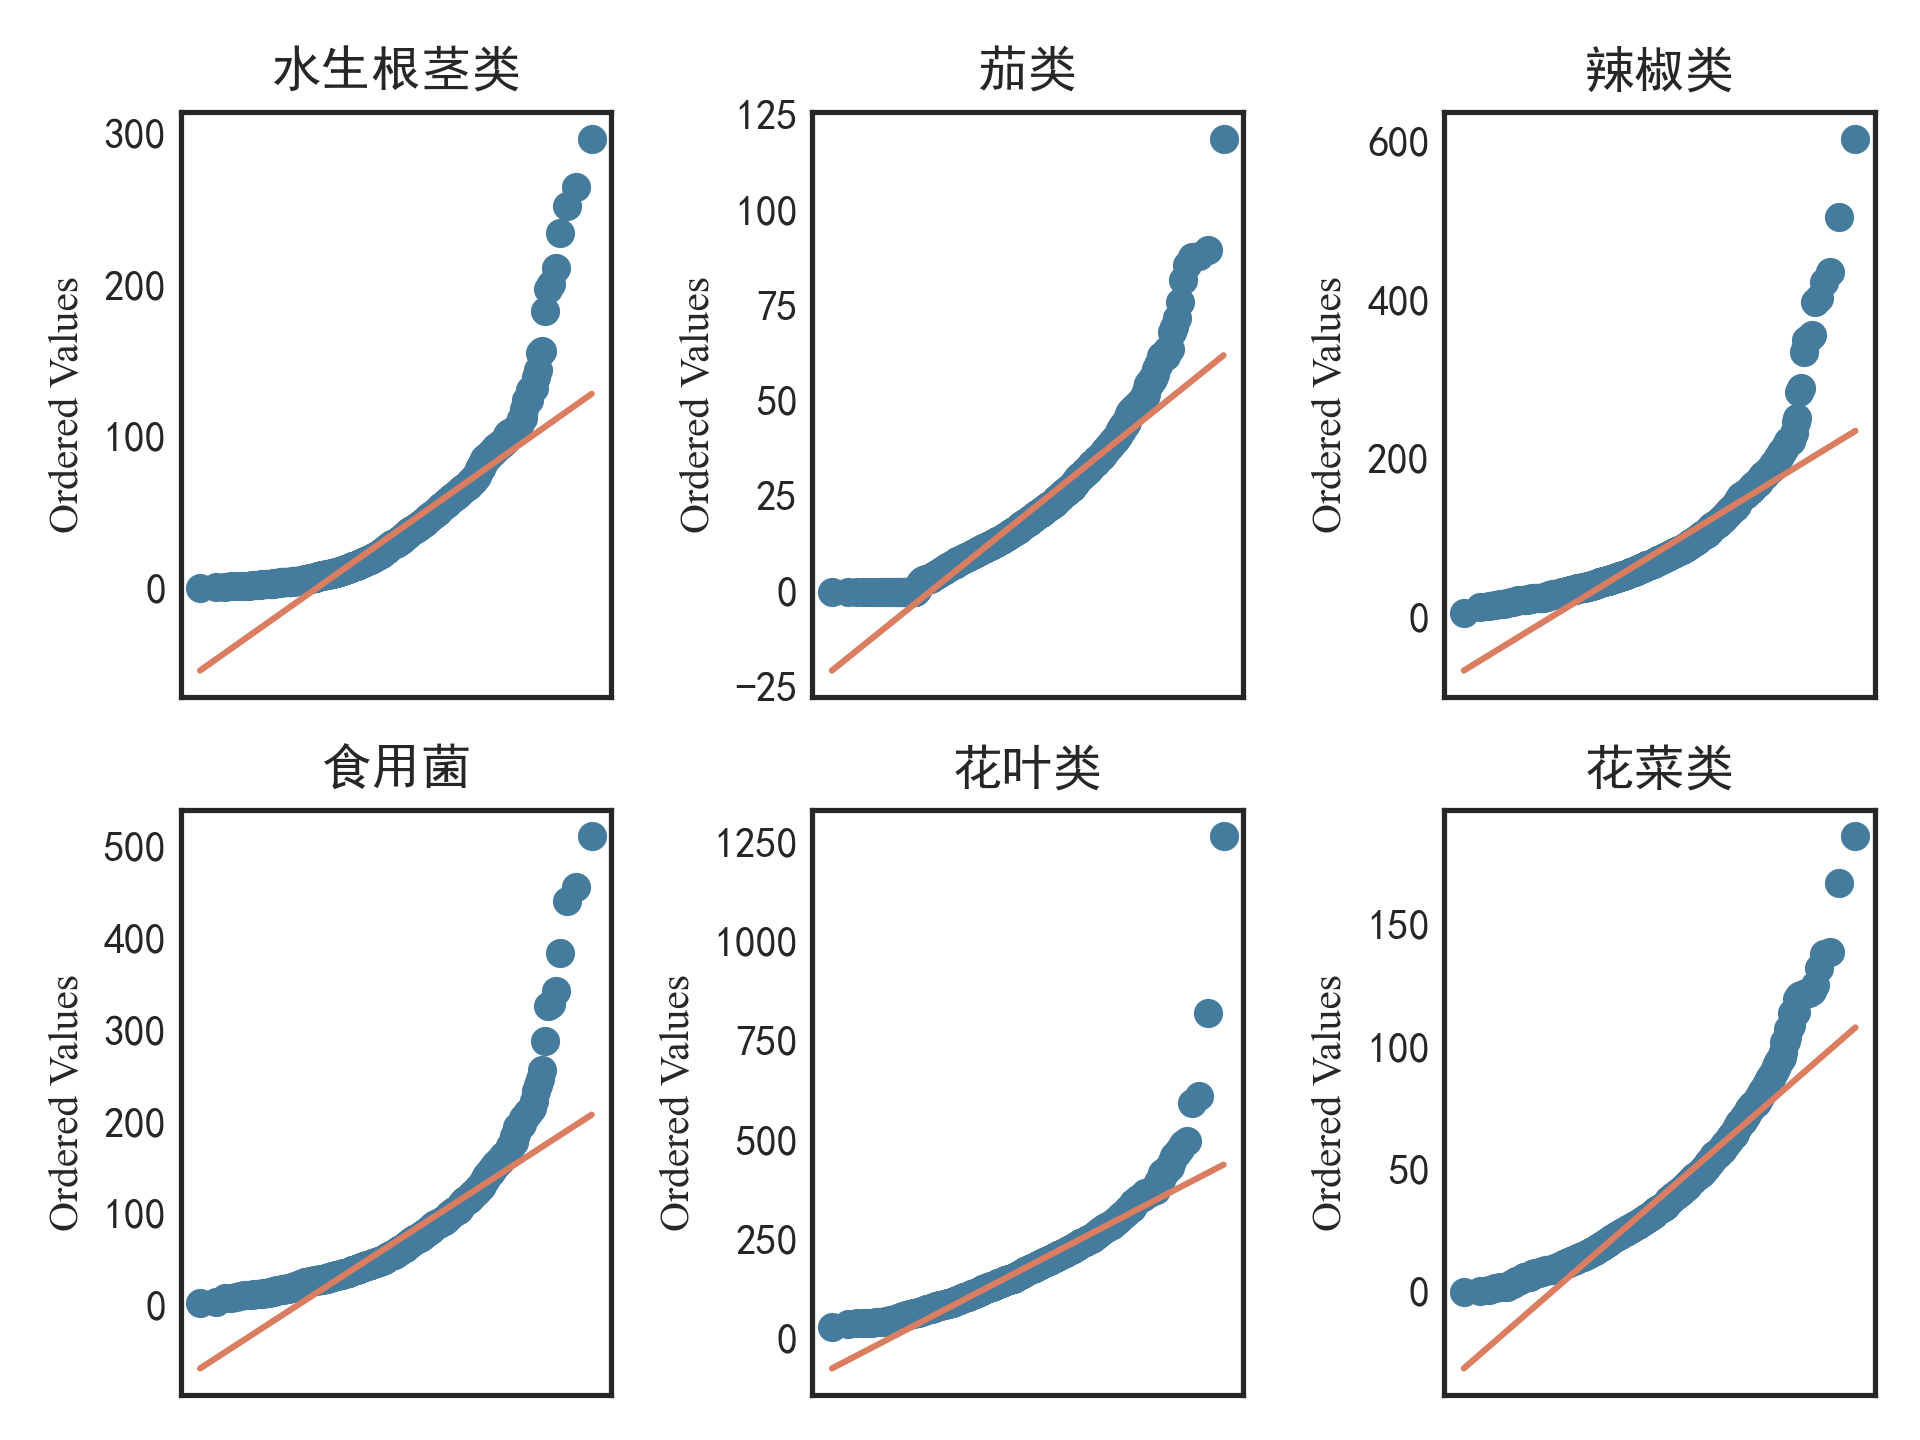
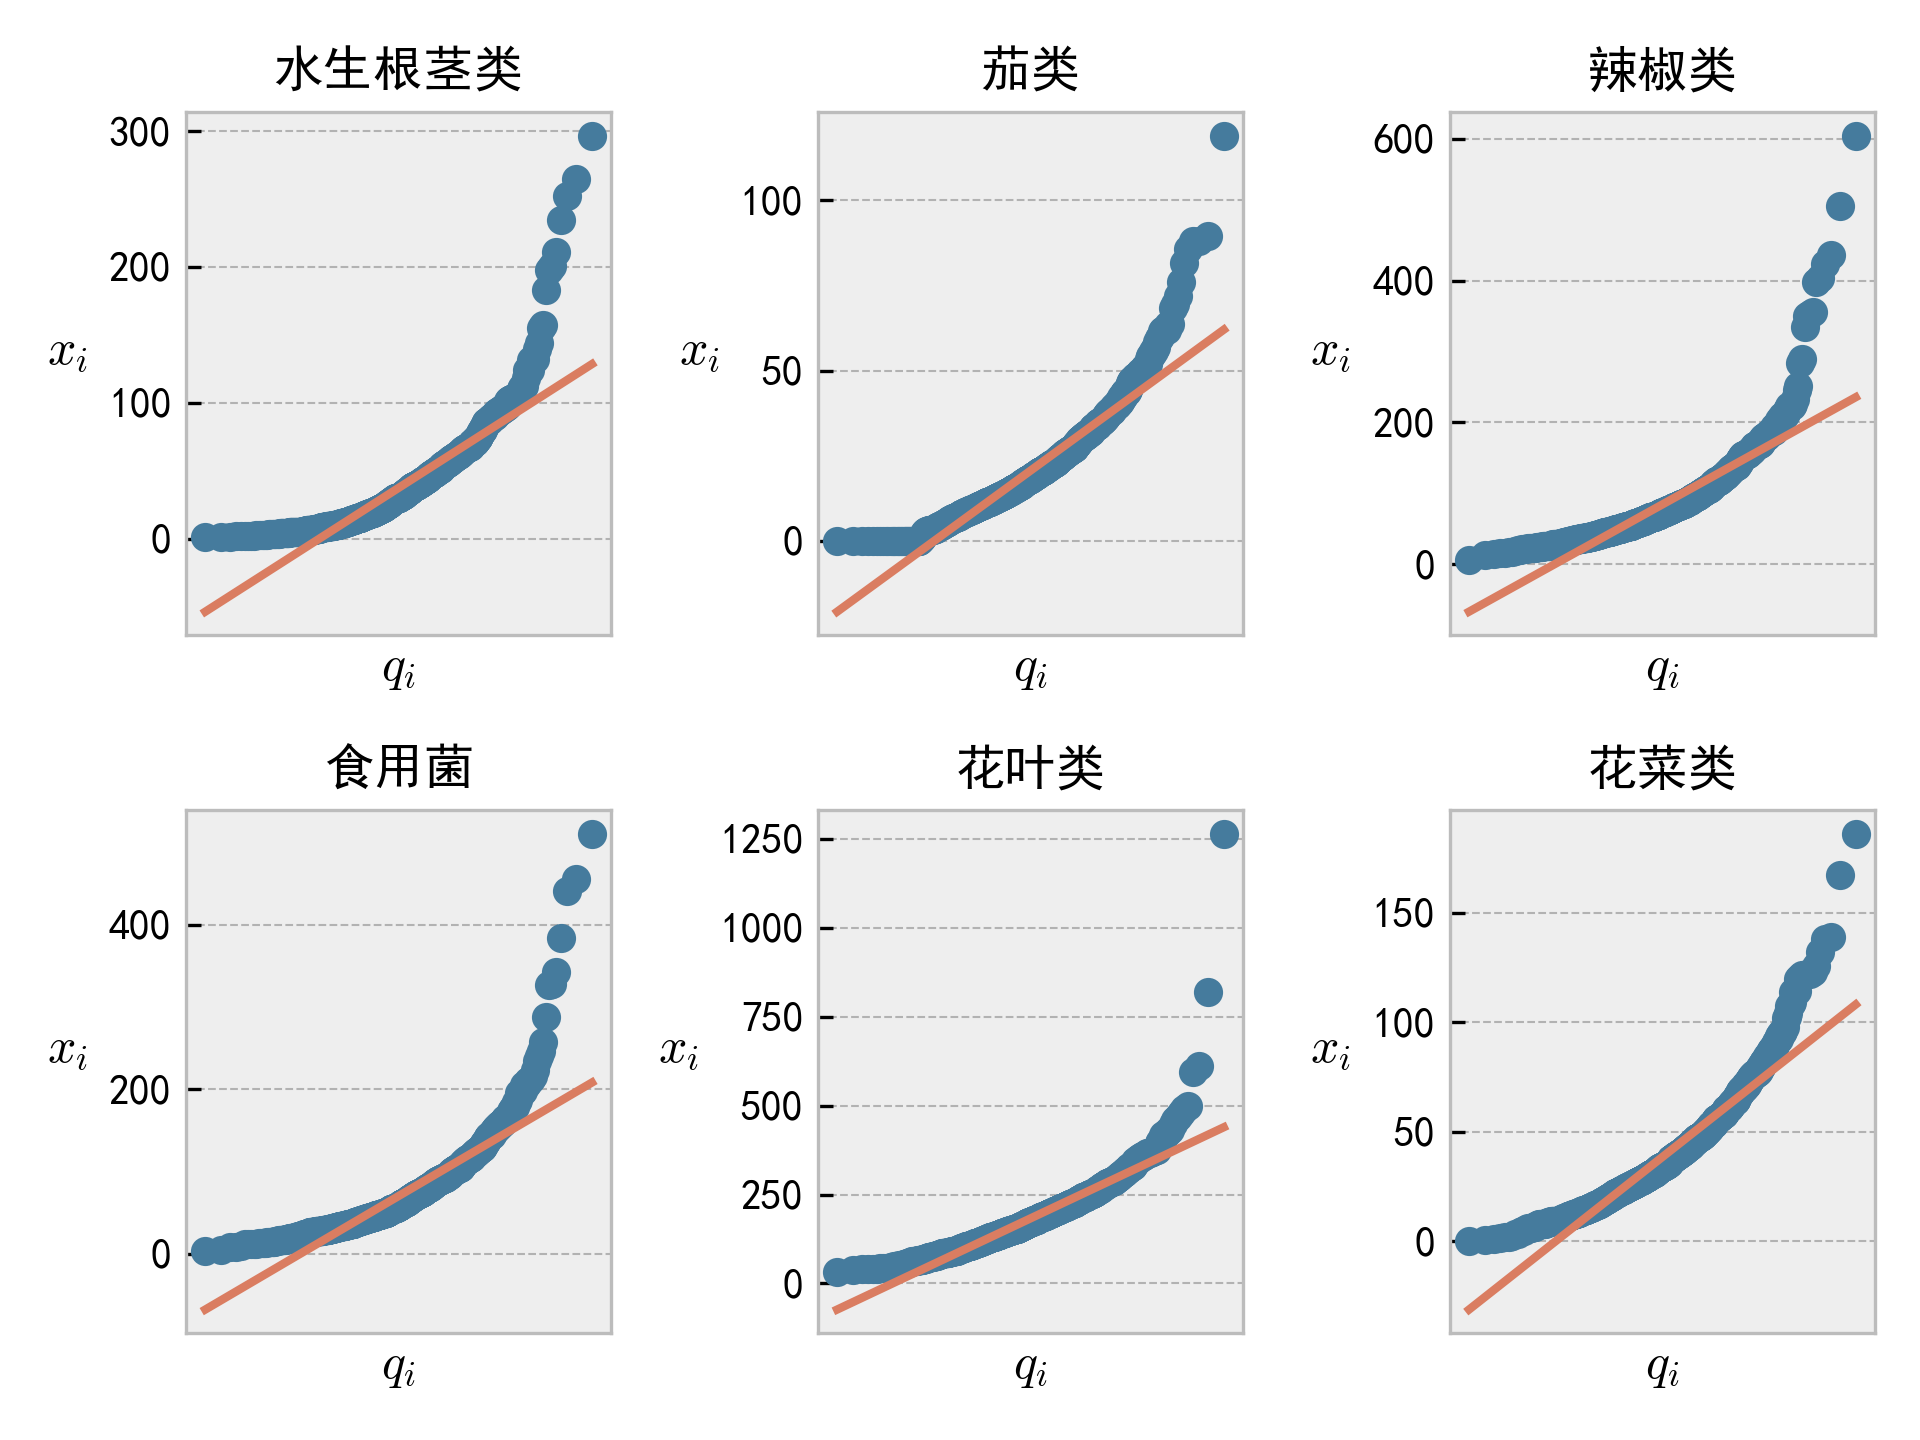
标准化单品权重

diff --git a/problem_01/norm_inspection.py b/problem_01/norm_inspection.py
@@ -107,7 +107,7 @@ def draw_cate_qq_inspection(data):
     :param data: 绘制品类分布直方图的数据
     :return: Q-Q图
     """
-    plt.style.use('seaborn-white')
+    plt.style.use('bmh')
     plt.rcParams['font.sans-serif'] = 'SimHei'
     plt.rcParams['axes.unicode_minus'] = False
     plt.subplots_adjust(wspace=0.45, hspace=0.3)
@@ -121,8 +121,8 @@ def draw_cate_qq_inspection(data):
         stats.probplot(data[col[i]], plot=plt)
 
         plt.xticks([])
-        plt.xlabel('')
-        plt.ylabel('Ordered Values', fontdict={"family": "Times New Roman", "size": 10})
+        plt.xlabel('$q_i$', fontdict={"size": 12})
+        plt.ylabel('$x_i$', fontdict={"size": 12}, rotation=0, labelpad=10)
 
         plt.title(get_cate_name_by_code(col[i]), fontsize=12)
 
@@ -137,7 +137,9 @@ def draw_item_qq_inspection(data):
     :return: Q-Q图
     """
     plt.style.use('bmh')
-    plt.subplots_adjust(wspace=0.45, hspace=0.3)
+    plt.rcParams['font.sans-serif'] = 'SimHei'
+    plt.rcParams['axes.unicode_minus'] = False
+    plt.subplots_adjust(wspace=0.45, hspace=0.1)
 
     col = data.columns
 
@@ -151,17 +153,16 @@ def draw_item_qq_inspection(data):
         plt.subplot(3, 3, i + 1)
         stats.probplot(data[col[i]], plot=plt)
 
-        plt.xlabel('')
-        plt.ylabel('Ordered Values', fontsize=10)
+        plt.xlabel('$q_i$', fontsize=12)
+        plt.ylabel('$x_i$', fontsize=12, rotation=0, labelpad=10)
         plt.title('')
-        plt.text(0.7, 0.9, get_item_msg_by_code(col[i])['单品名称'], ha='center', va='center',
-                 transform=plt.gca().transAxes, fontsize=7)
+        plt.text(0.3, 0.9, get_item_msg_by_code(col[i])['单品名称'], ha='center', va='center',
+                 transform=plt.gca().transAxes, fontsize=8)
         plt.tick_params(axis='both', which='both', labelbottom=True, labelleft=True)
         plt.xticks([])
-        plt.yticks([])
 
     plt.tight_layout()
-    plt.savefig('../data/部分蔬菜单品销售量Q-Q图.png')
+    plt.savefig('../data/部分蔬菜单品销售量Q-Q图.png', dpi=300)
     plt.show()
 
 
@@ -184,8 +185,8 @@ if __name__ == '__main__':
     # for col in cols:
     #     print(get_cate_name_by_code(col) + ':', ks_inspection(data[col]))
 
-    # data = pd.read_csv(file1).iloc[:, 67:76]
-    # draw_item_qq_inspection(data)
+    data = pd.read_csv(file1).iloc[:, 67:76]
+    draw_item_qq_inspection(data)
     # cols = data.columns
     # for col in cols:
     #     print(ks_inspection(data[col]))
@@ -206,15 +207,15 @@ if __name__ == '__main__':
     # for col in cols:
     #     print(get_item_msg_by_code(col)['单品名称'] + ' ks检验结果:', ks_inspection(data[col]))
 
-    data = pd.read_csv(file1).iloc[:, 1:]
-    item_codes = data.columns
-    ks_DRes_of_item = {}
-    ks_PRes_of_item = {}
-    for code in item_codes:
-        res = ks_inspection(data[code])
-        ks_DRes_of_item[get_item_msg_by_code(code)['单品名称']] = res.statistic
-        ks_PRes_of_item[get_item_msg_by_code(code)['单品名称']] = res.pvalue
-    DDataframe = pd.DataFrame.from_dict(ks_DRes_of_item, orient='index', columns=['D值'])
-    DDataframe.to_csv('../data/各单品的ks检验结果D值.csv', index_label='单品名称', encoding="gbk")
-    PDataframe = pd.DataFrame.from_dict(ks_PRes_of_item, orient='index', columns=['P值'])
-    PDataframe.to_csv('../data/各单品的ks检验结果P值.csv', index_label='单品名称', encoding="gbk")
+    # data = pd.read_csv(file1).iloc[:, 1:]
+    # item_codes = data.columns
+    # ks_DRes_of_item = {}
+    # ks_PRes_of_item = {}
+    # for code in item_codes:
+    #     res = ks_inspection(data[code])
+    #     ks_DRes_of_item[get_item_msg_by_code(code)['单品名称']] = res.statistic
+    #     ks_PRes_of_item[get_item_msg_by_code(code)['单品名称']] = res.pvalue
+    # DDataframe = pd.DataFrame.from_dict(ks_DRes_of_item, orient='index', columns=['D值'])
+    # DDataframe.to_csv('../data/各单品的ks检验结果D值.csv', index_label='单品名称', encoding="gbk")
+    # PDataframe = pd.DataFrame.from_dict(ks_PRes_of_item, orient='index', columns=['P值'])
+    # PDataframe.to_csv('../data/各单品的ks检验结果P值.csv', index_label='单品名称', encoding="gbk")

diff --git a/problem_01/updata_weight.py b/problem_01/updata_weight.py
@@ -1,0 +1,47 @@
+import pandas as pd
+import math
+
+
+def get_item_msg_by_code(code):
+    data = pd.read_csv('../附件1-蔬菜品类的商品信息.csv')
+    for index, row in data.iterrows():
+        if str(row['单品编码']) == str(code):
+            return {
+                '单品编码': row['单品编码'],
+                '单品名称': row['单品名称'],
+                '分类编码': row['分类编码'],
+                '分类名称': row['分类名称']
+            }
+
+
+def get_cate_name_by_code(code):
+    data = pd.read_csv('../附件1-蔬菜品类的商品信息.csv')
+    for index, row in data.iterrows():
+        if str(row['分类编码']) == str(code):
+            return row['分类名称']
+
+
+def update_weight():
+    df = pd.read_csv('../data/各单品对应品类的贡献率.csv')
+    cate_weight = {}
+    for idx, row in df.iterrows():
+        if str(int(row['分类编码'])) not in cate_weight.keys():
+            cate_weight[str(int(row['分类编码']))] = 0
+        cate_weight[str(int(row['分类编码']))] += math.exp(row['贡献率'])
+    res_df = {}
+    for idx, row in df.iterrows():
+        tmp = {
+            '贡献率': math.exp(row['贡献率']) / cate_weight[str(int(row['分类编码']))]
+        }
+        res_df[str(int(row['单品编码']))] = tmp
+
+    dfx = pd.DataFrame(columns=['单品编码', '分类编码', '贡献率'])
+    for index, row in df.iterrows():
+        tmp = get_item_msg_by_code(str(int(row['单品编码'])))
+        dfx.loc[len(dfx)] = [str(tmp['单品编码']), str(tmp['分类编码']), res_df[str(tmp['单品编码'])]['贡献率']]
+    # print(dfx)
+    dfx.to_csv('../data/各单品对应品类的贡献率(标准化).csv')
+
+
+if __name__ == '__main__':
+    update_weight()
